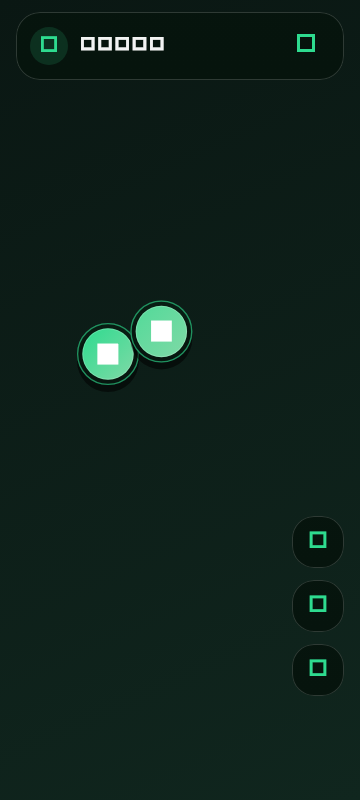
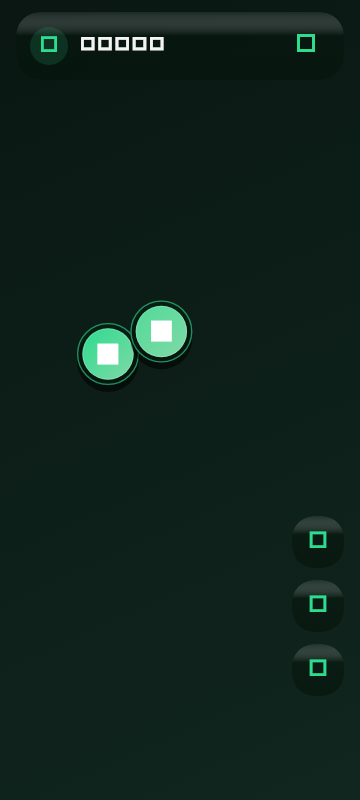
It was the border all along, and sending returns you to the newest message
Two builds were spent hunting a shadow that is not a shadow, and the last one
answered the wrong question: it took the transparency off the islands, which
nobody asked for, and left the thing being complained about exactly where it
was. The transparency is back — same gradient, same blur.

What draws the outline is a hairline of white at 16%, `Border.all` on every
pane. It was there to give a pane a lit edge against a dark backdrop, and what
it actually does over the aurora and over a wallpaper is trace the pane's
bounds — which is the one thing a floating island must not do, and is precisely
"some shadow, a micro border behind the islands". Gone from the floating panes,
the bar and the composer, which stay in step by rule. The gradient still
separates them from what is behind: it starts light at the top and darkens
downward, drawing the same lit-from-above cue the border was drawing by hand.

Separately: reading back through a conversation and then typing into it left the
message somewhere below the screen with nothing saying so. The list rides back
down to it now, over 260 ms, and only for messages you sent — one arriving from
the other person while you are reading history must not pull the page out from
under you. That distinction was already being made a few lines up for the send
animation, so it hangs off the same decision rather than a second one.

It does nothing when already at the bottom. A scroll of zero pixels still
[…]

diff --git a/lib/core/widgets/floating_glass.dart b/lib/core/widgets/floating_glass.dart
@@ -3,6 +3,8 @@ import 'dart:ui';
 import 'package:flutter/material.dart';
 
 import '../theme/colors.dart';
+import '../theme/glass.dart';
+import '../util/ui_activity.dart';
 
 /// A single levitating pane of smoked glass — the same treatment the floating
 /// nav bar uses, offered as a reusable surface so a list of them reads as a
@@ -100,16 +102,28 @@ class FloatingGlass extends StatelessWidget {
           begin: Alignment.topCenter,
           end: Alignment.bottomCenter,
           colors: [
-            AppColors.pane(0.96),
-            AppColors.pane(0.98),
-            AppColors.paneBase,
+            AppColors.glass(0.07),
+            AppColors.pane(0.52),
+            AppColors.pane(0.66),
           ],
           stops: const [0, 0.35, 1],
         ),
         borderRadius: radius,
-        border: Border.all(
-          color: AppColors.glass(0.16),
-        ),
+        // No border.
+        //
+        // This is the "shadow, some micro border behind the islands" that got
+        // reported three times and pointed at in a screenshot. Not a shadow —
+        // that list is empty — and not the blur's edge either, which is what
+        // two builds were spent chasing: a hairline of white at 16%, drawn
+        // around every pane, and read as an outline sitting behind the shape
+        // rather than as part of it.
+        //
+        // It was there to give the pane a lit edge against a dark backdrop.
+        // What it actually does over the aurora and over a wallpaper is trace
+        // the pane's bounds, which is the one thing a floating island must not
+        // do. The gradient already separates it from what is behind: it starts
+        // light at the top and darkens downward, which is the same "lit from
+        // above" cue the border was drawing by hand.
       ),
     );
 
@@ -166,29 +180,36 @@ class FloatingGlass extends StatelessWidget {
               // content: only this subtree rebuilds, and the content above
               // keeps its state. Wrapping the content instead is what once
               // remounted the photo grid on every scroll.
-              // The blur is gone, and with it the rectangle behind every
-              // island.
-              //
-              // Reported three times — "some shadow, a micro border" — and
-              // finally pointed at in a screenshot: a square-cornered darker
-              // patch around the header capsule and the pinned bar, wider than
-              // the pill it belongs to, sitting over the wallpaper where
-              // nothing hides it. It is not a shadow (the list below is empty)
-              // and not a border (that one follows the corner). It is the
-              // backdrop filter's own layer — the filter runs over a rectangle
-              // and the rounded shape is cut out of the result afterwards.
-              //
-              // `TileMode.decal` is the documented answer to a filter smearing
-              // at its edge and it changed nothing on the phone that reported
-              // this, so the pane is filled instead of sampled. An opaque tint
-              // cannot draw an edge, costs nothing to raster, and is the same
-              // trade the nav bar already took a build earlier.
-              //
-              // What is lost is a softness only visible through a pane that
-              // was 52-66% opaque to begin with. What is gained, besides the
-              // artefact going away, is one gaussian per island per frame —
-              // and there are five of them on a conversation.
-              child: tint,
+              child: blur
+                  ? ListenableBuilder(
+                      // **Navigation only. Not scrolling.**
+                      //
+                      // Dropping it during a scroll is written up below as
+                      // tried and reverted, and on 2026-08-25 it was put back
+                      // by listening to the combined motion signal — which is
+                      // how a documented revert gets undone by accident. It
+                      // was reported the same evening in the same words as
+                      // last time: the surfaces flicker between see-through
+                      // and solid. The note below was right both times.
+                      //
+                      // A transition is the case that revert does not cover
+                      // and the one that measured 37-47 ms of raster: the
+                      // whole screen is being replaced, so a pane changing
+                      // appearance inside it is not something there is any
+                      // stillness to notice it against.
+                      listenable: UiActivity.instance.isNavigating,
+                      child: tint,
+                      builder: (context, pane) {
+                        if (UiActivity.instance.isNavigating.value) {
+                          return pane!;
+                        }
+                        return BackdropFilter(
+                          filter: AppBlur.pane,
+                          child: pane,
+                        );
+                      },
+                    )
+                  : tint,
             ),
             // The one unpositioned child, so the stack sizes itself to it —
             // exactly as when it was the decorated box's child.

diff --git a/lib/features/chat/presentation/chat_screen.dart b/lib/features/chat/presentation/chat_screen.dart
@@ -1298,6 +1298,17 @@ class _ConversationViewState extends ConsumerState<_ConversationView> {
     final previous = {for (final message in before) message.id};
     for (final message in after) {
       if (!previous.contains(message.id) && _isFreshOutgoing(message)) {
+        // Sending puts you back at the bottom.
+        //
+        // Reading back through a conversation and then typing into it is an
+        // ordinary thing to do, and what happened was that the message went,
+        // the list stayed where it was, and the thing just written sat
+        // somewhere below the screen with nothing saying so.
+        //
+        // Only for messages *you* sent, which is what this function already
+        // decides — one arriving from the other person while you are reading
+        // history must not pull the page out from under you.
+        _returnToNewest();
         _smoothSendIds.add(message.id);
         _smoothSendTimers[message.id]?.cancel();
         _smoothSendTimers[message.id] = Timer(const Duration(seconds: 2), () {
@@ -1307,6 +1318,28 @@ class _ConversationViewState extends ConsumerState<_ConversationView> {
         });
       }
     }
+  }
+
+  /// Ride back down to the newest message — see [_trackSmoothSends].
+  ///
+  /// After the frame that adds the row, because until it exists there is
+  /// nothing to scroll to. `reverse: true`, so the newest message lives at
+  /// offset zero and "down" is towards it.
+  ///
+  /// Does nothing when already there, which is the common case: a scroll of
+  /// zero pixels still animates, and animating the list on every single send
+  /// would fight a finger that is holding it.
+  void _returnToNewest() {
+    WidgetsBinding.instance.addPostFrameCallback((_) {
+      if (!mounted || !_scroll.hasClients) return;
+      final position = _scroll.position;
+      if (position.pixels <= 1) return;
+      unawaited(_scroll.animateTo(
+        0,
+        duration: const Duration(milliseconds: 260),
+        curve: Curves.easeOutCubic,
+      ));
+    });
   }
 
   bool _isFreshOutgoing(Message message) {

diff --git a/lib/features/chat/presentation/widgets/chat_input.dart b/lib/features/chat/presentation/widgets/chat_input.dart
@@ -76,9 +76,10 @@ class MessageIslandGlass extends StatelessWidget {
                         stops: const [0, 0.35, 1],
                       ),
                       borderRadius: radius,
-                      border: Border.all(
-                        color: AppColors.glass(0.14),
-                      ),
+                      // No border — the composer is a floating island and
+                      // follows the rule written up in [FloatingGlass]: a
+                      // hairline around one traces its bounds, which is what
+                      // read as an outline sitting behind it.
                     ),
                   ),
                 ),

diff --git a/lib/core/util/app_build.dart b/lib/core/util/app_build.dart
@@ -16,11 +16,11 @@ library;
 ///
 /// Bumped by hand alongside pubspec, and `tool/build_apk.ps1` verifies the two
 /// agree before it will build.
-const String appVersion = '0.65.0';
+const String appVersion = '0.65.1';
 
 /// Which build, in words. Bumped for every APK that leaves this machine so a
 /// tester can say what they are running without reading a number.
 ///
 /// Verified inside `libapp.so` after every build — see `tool/build_apk.ps1`,
 /// which is what catches a build that silently reused an old snapshot.
-const String appBuildStamp = '2026-08-26-fill-the-islands';
+const String appBuildStamp = '2026-08-26-it-was-the-border';

diff --git a/lib/core/widgets/bar_glass.dart b/lib/core/widgets/bar_glass.dart
@@ -95,7 +95,10 @@ class BarGlass extends StatelessWidget {
                     stops: const [0, 0.35, 1],
                   ),
                   borderRadius: BorderRadius.circular(radius),
-                  border: Border.all(color: AppColors.glass(0.16)),
+                  // No border, for the reason written up in [FloatingGlass]:
+                  // a hairline around a floating island traces its bounds, and
+                  // tracing its bounds is what made it read as having an
+                  // outline behind it. The pair stay in step.
                 ),
               ),
             ),
